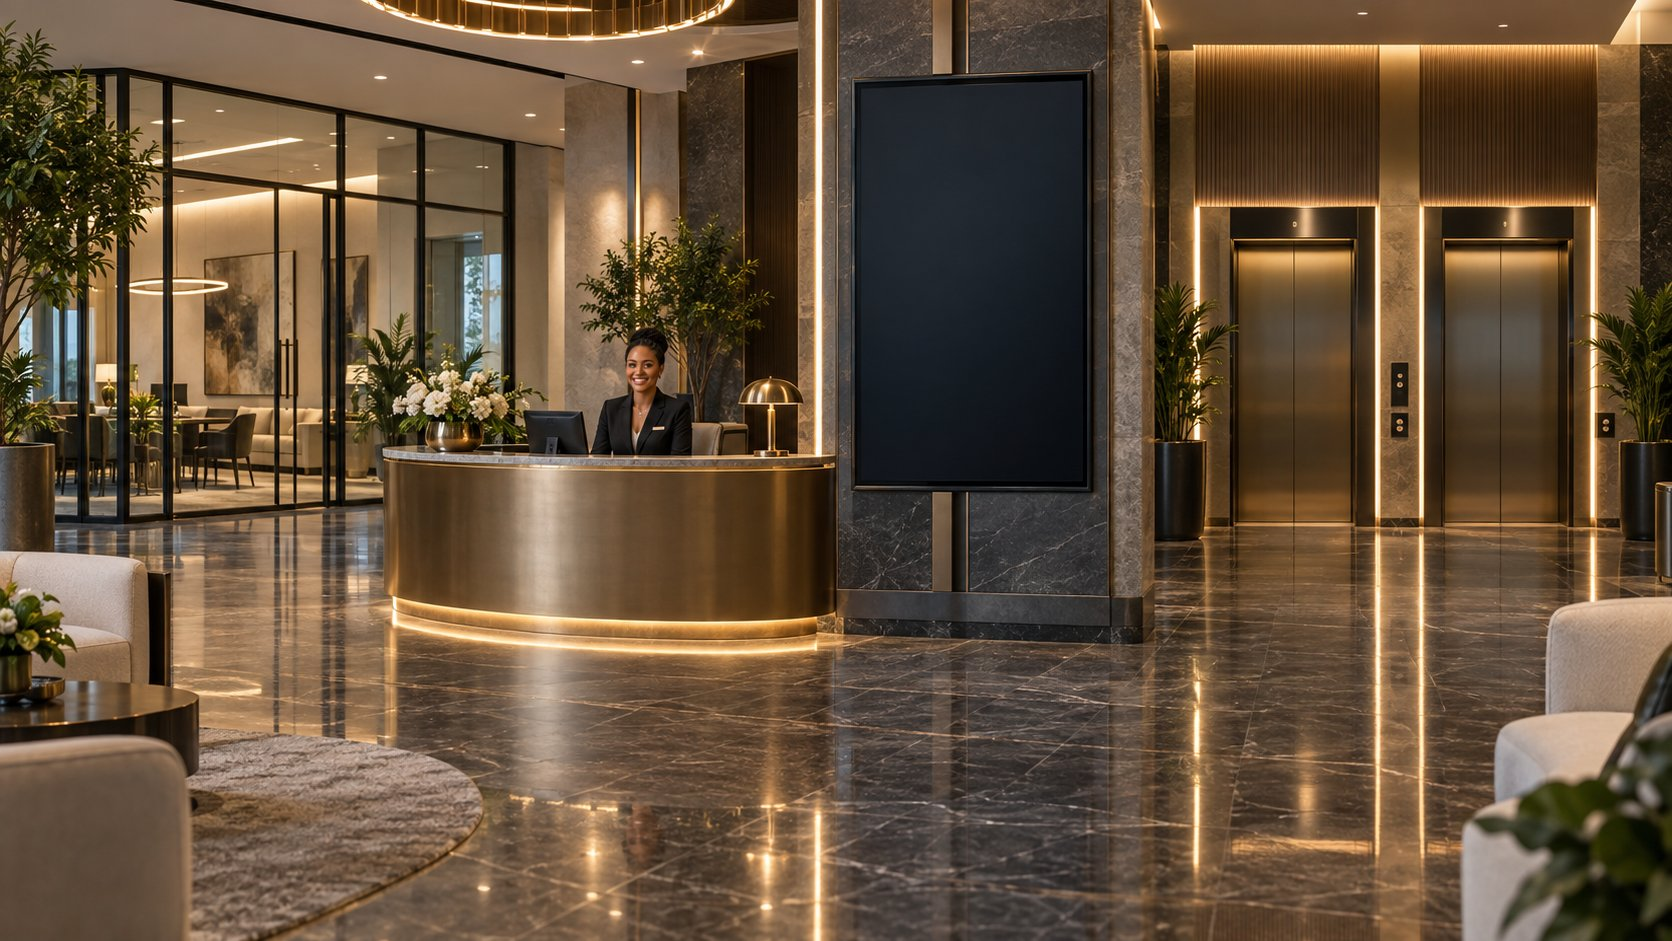
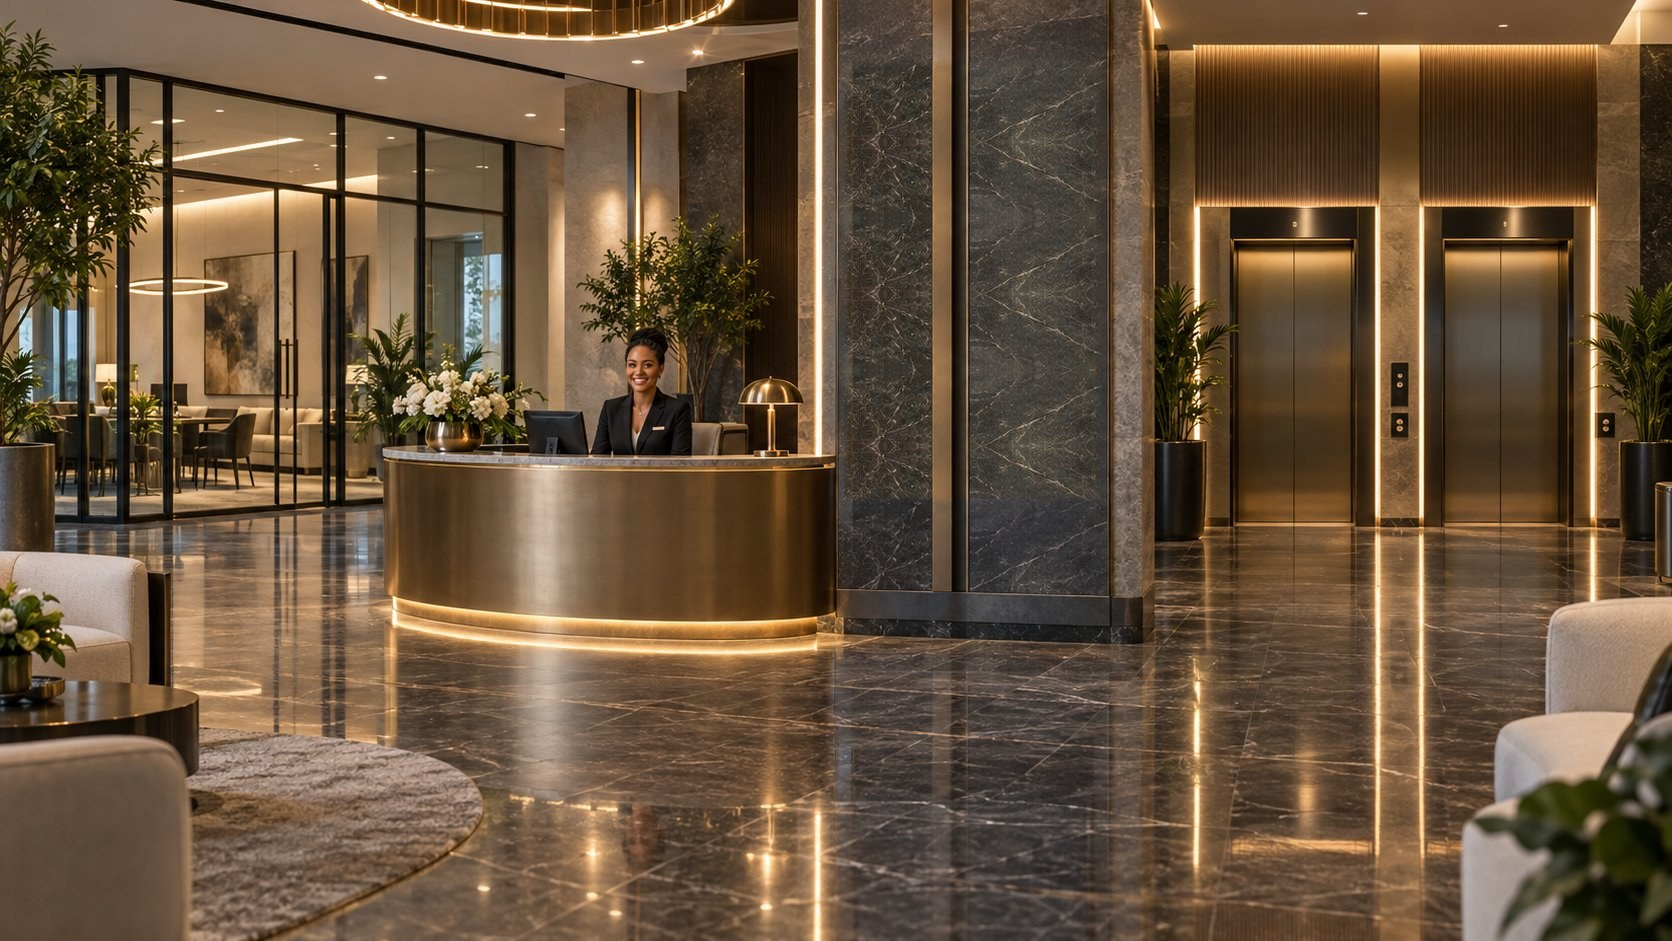
Lobby: remove the photo's blank screen behind the welcome sign
Sign layout unchanged; the empty screen in the lobby photo is replaced with
the marble pillar (build/fix_lobby.py, original kept in src/img-original).

Changed region(s): [[0.4976, 0.0616, 0.6531, 0.5239]]

diff --git a/build/fix_lobby.py b/build/fix_lobby.py
@@ -1,0 +1,57 @@
+# Removes the blank digital screen from the lobby photo so the site's own
+# welcome sign floats on the marble pillar with nothing showing behind it.
+# The screen area is rebuilt from the marble pillar just below it (mirrored
+# strips, so the bronze inlay keeps running straight), then seams are blended.
+# Usage: python build/fix_lobby.py src/img-original/main-lobby.jpg img/main-lobby.jpg
+import sys
+import cv2
+import numpy as np
+
+src, out = sys.argv[1], sys.argv[2]
+img = cv2.imread(src)
+s = img.shape[1] / 1672
+
+def px(v):
+    return int(round(v * s))
+
+x0, x1 = px(840), px(1104)          # screen incl. frame and a margin for feathering
+y0, y1 = px(58), px(504)
+band = img[px(500):px(592), x0:x1]  # clean marble + bronze strip under the screen
+bh = band.shape[0]
+
+# Alternate strips are mirrored top-to-bottom so the veins don't visibly repeat.
+def variant(k):
+    return band[::-1] if k % 2 else band
+
+H, W = y1 - y0, x1 - x0
+fill = np.zeros((H, W, 3), np.float32)
+weight = np.zeros((H, W, 1), np.float32)
+step, ov = bh - 16, 16           # overlap strips and cross-fade them
+y, k = 0, 0
+while y < H:
+    t = variant(k).astype(np.float32)
+    n = min(bh, H - y)
+    ramp = np.ones((n, 1, 1), np.float32)
+    if y > 0:
+        r = np.linspace(0, 1, min(ov, n))[:, None, None]
+        ramp[:len(r)] = r
+    fill[y:y + n] = fill[y:y + n] * (1 - ramp) + t[:n] * ramp
+    y += step
+    k += 1
+
+# Match the marble's brightness to the pillar just above the screen.
+above = img[px(8):px(58), x0:x1].astype(np.float32).reshape(-1, 3).mean(0)
+mean = fill[: px(60)].reshape(-1, 3).mean(0)
+fill *= np.clip(above / np.maximum(mean, 1), 0.8, 1.3)
+
+# Feathered edges so the patch melts into the surrounding photo.
+alpha = np.ones((H, W), np.float32)
+f = px(10)
+ramp = np.linspace(0, 1, f)
+alpha[:f] *= ramp[:, None]; alpha[-f:] *= ramp[::-1][:, None]
+alpha[:, :f] *= ramp[None, :]; alpha[:, -f:] *= ramp[::-1][None, :]
+region = img[y0:y1, x0:x1].astype(np.float32)
+res = img.copy()
+res[y0:y1, x0:x1] = (fill * alpha[..., None] + region * (1 - alpha[..., None])).clip(0, 255).astype(np.uint8)
+cv2.imwrite(out, res, [cv2.IMWRITE_JPEG_QUALITY, 88])
+print('screen removed', out)
